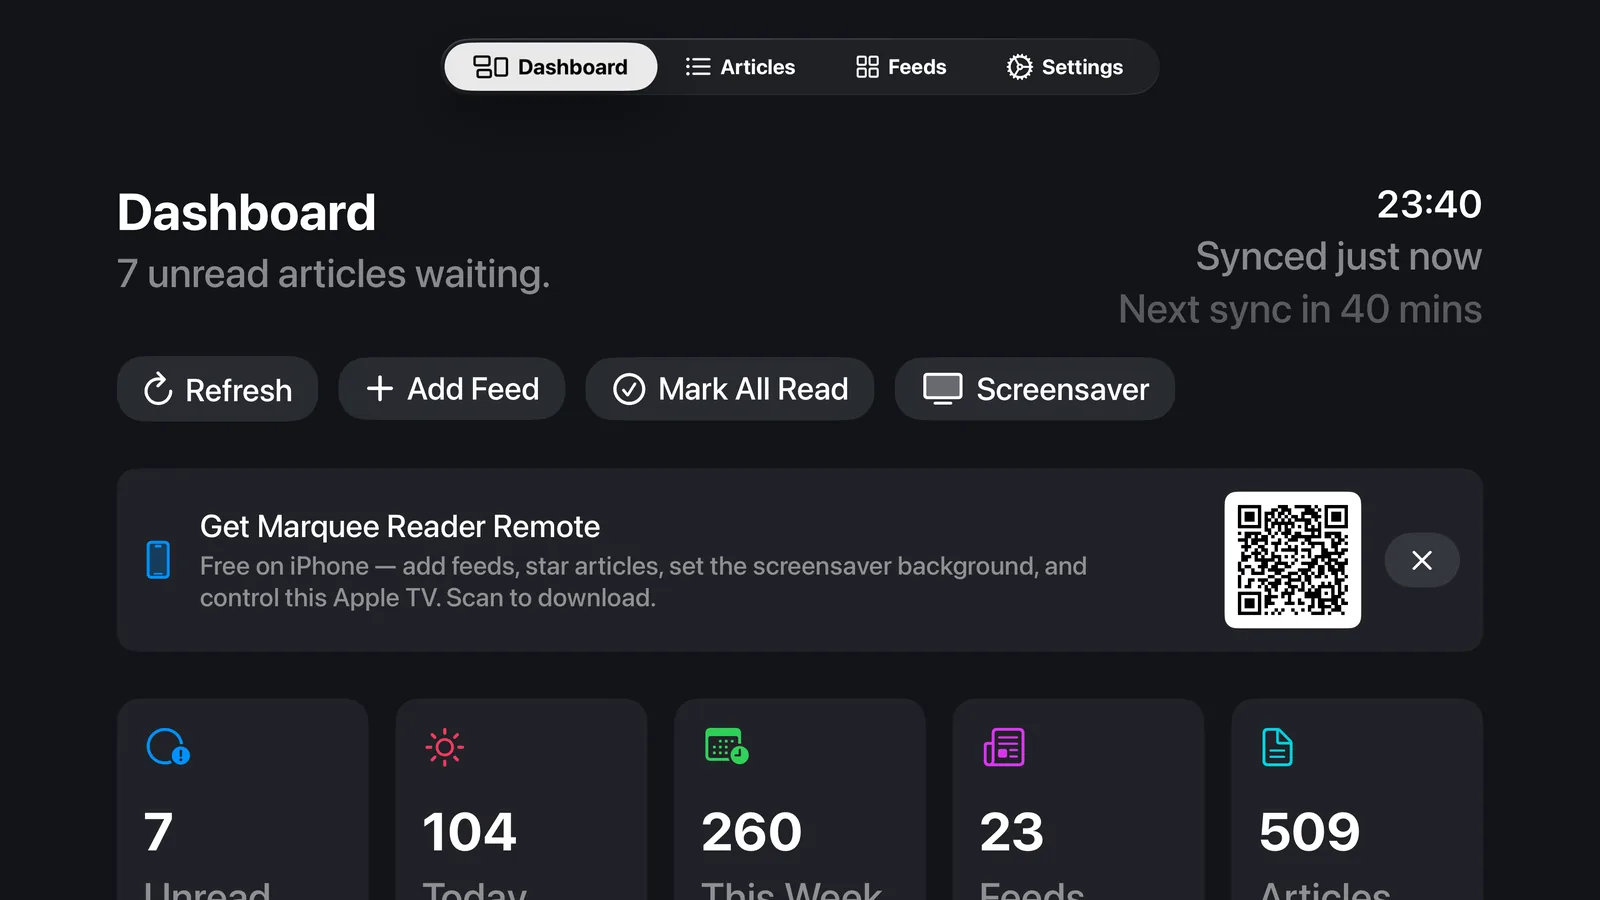
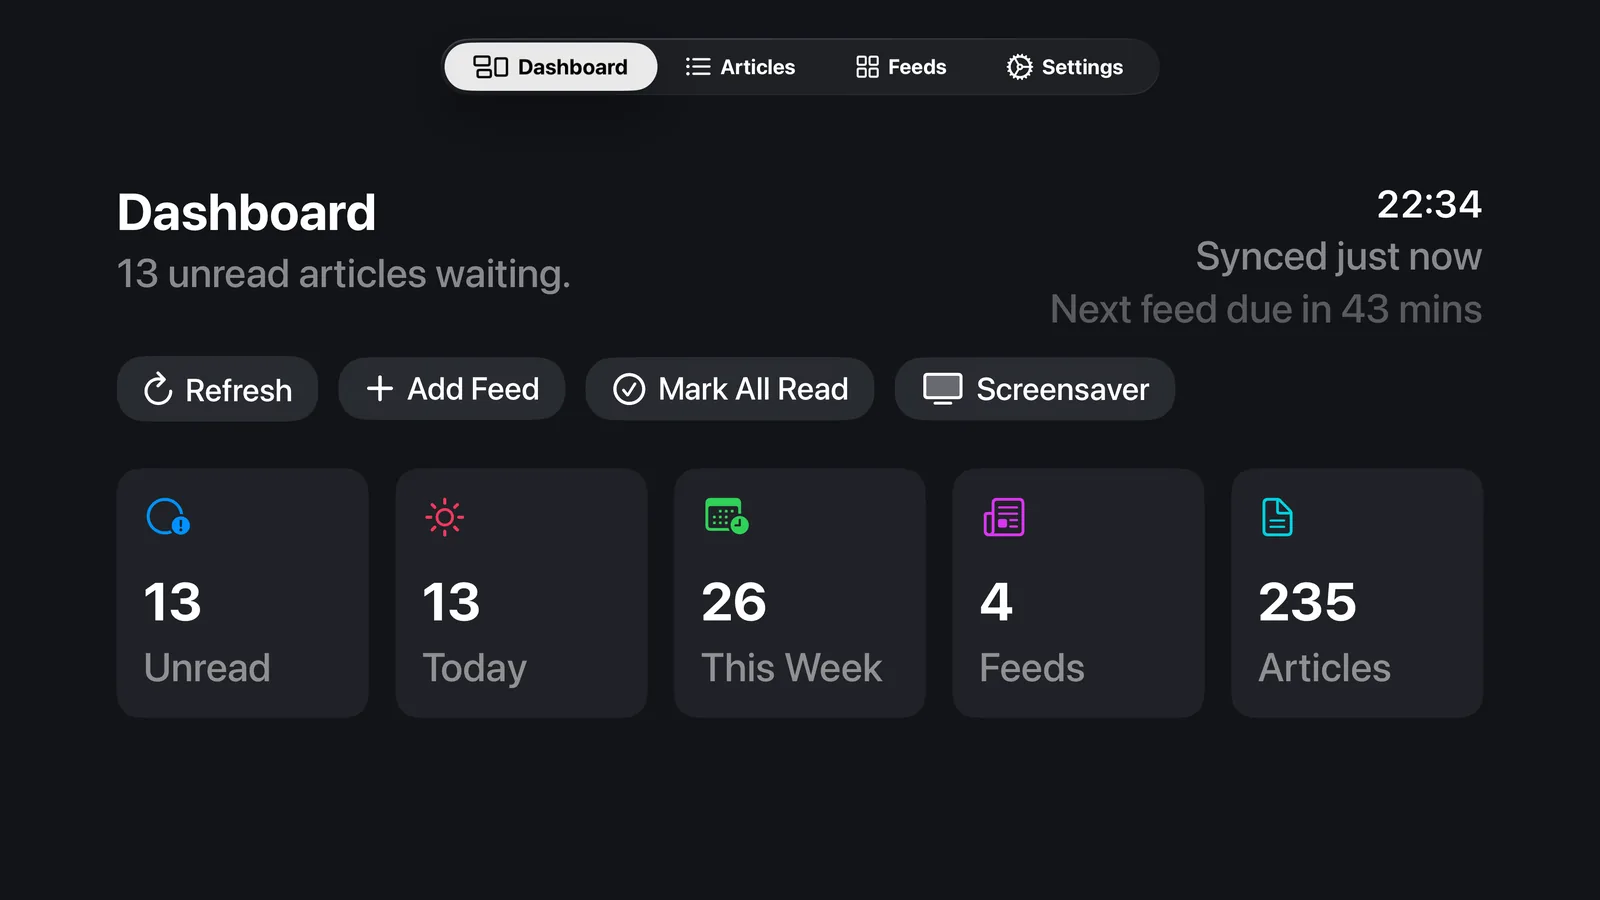
Site: the hero screenshot was advertising a product name we no longer use
dashboard.webp was captured before RemoteApp.name changed, so the promo
banner read "Get Marquee Reader Remote" — a name that ships nowhere — and
the header still said "Next sync in 40 mins", the copy c74fcc2 replaced for
telling people the opposite of the truth. Both were on the eager-loaded hero
image, so it was the first thing a visitor read.

Re-shot with the banner dismissed rather than renamed: the QR points at an
App Store page that doesn't exist yet, so the banner has nothing useful to
offer a website visitor even with the right name on it. Dismissed via the
simulator's own defaults (remoteBannerDismissed) instead of patching the
view, so no capture harness could leak into a commit the way -pushtest did.

Alt text said "recent activity", which the dashboard doesn't show.

Also drop two rel="noopener" attributes. Neither link opens a new browsing
context, so there was nothing for them to sever — and browsers have implied
noopener on target="_blank" since 2021 regardless.

Claude-Session: https://claude.ai/code/session_01V7L9MjGTtobhqp1HMuvKTc

diff --git a/privacy.html b/privacy.html
@@ -65,7 +65,7 @@
         articles, your app settings, and articles you send from the TV to your
         phone.</p>
         <p>This data lives in your personal iCloud account. It is governed by
-        <a href="https://www.apple.com/legal/privacy/" rel="noopener">Apple’s
+        <a href="https://www.apple.com/legal/privacy/">Apple’s
         Privacy Policy</a>, and <strong>we have no access to it</strong> — a
         private CloudKit database is readable only by the account that owns it.
         The developer cannot read it, and neither can anyone else. If you sign out

diff --git a/index.html b/index.html
@@ -60,7 +60,7 @@
       </p>
       <div class="hero__shot reveal">
         <div class="shot shot--glow">
-          <img src="assets/screenshots/dashboard.webp" alt="Marquee Reader dashboard on Apple TV showing unread counts and recent activity" loading="eager" />
+          <img src="assets/screenshots/dashboard.webp" alt="Marquee Reader dashboard on Apple TV showing unread counts and quick actions" loading="eager" />
         </div>
       </div>
     </div>

diff --git a/support.html b/support.html
@@ -120,7 +120,7 @@
           <h3 style="margin-top:0">Get in touch</h3>
           <p><a href="mailto:hello@itr8.tech">hello@itr8.tech</a></p>
           <p>Marquee Reader is made by
-          <a href="https://itr8.tech" rel="noopener">Iterate Technologies Limited</a>.</p>
+          <a href="https://itr8.tech">Iterate Technologies Limited</a>.</p>
         </div>
       </article>
     </div>
